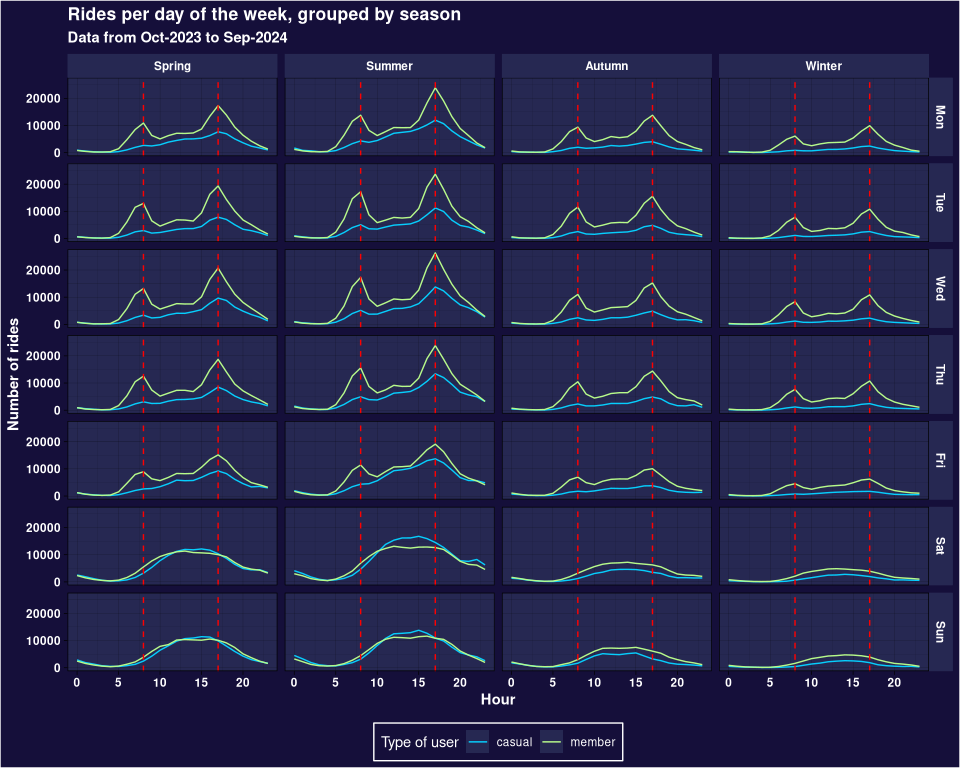
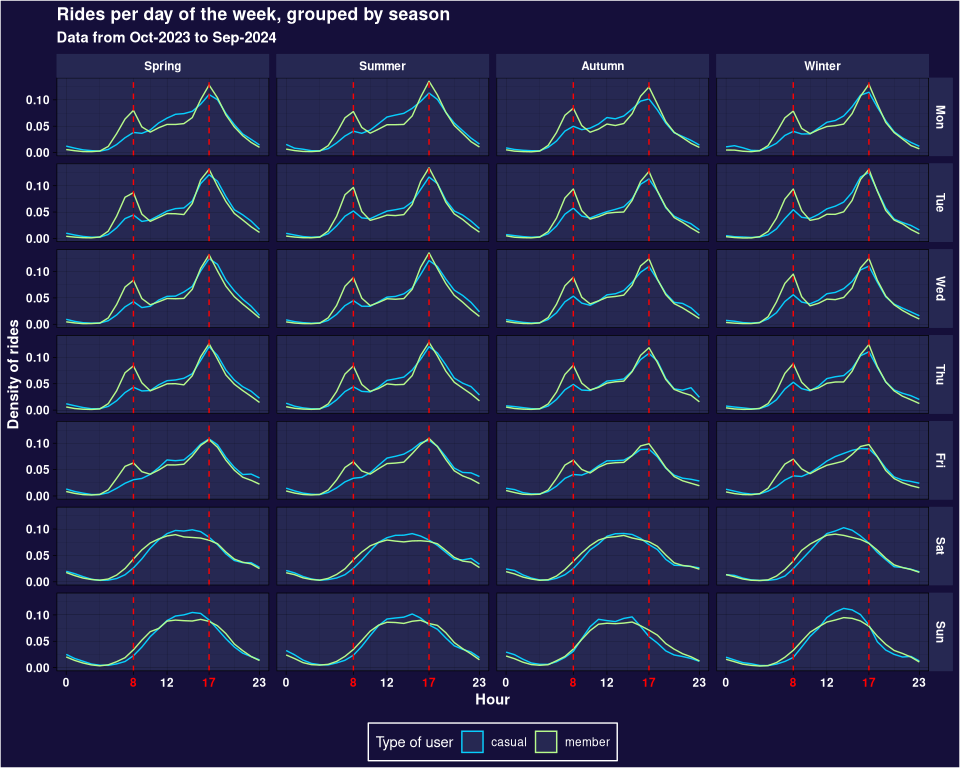
Improve plot parameters for plot of rides per day of the week and season, render file output

diff --git a/README.md b/README.md
@@ -304,14 +304,14 @@ stations |>
   kable()
 ```
 
-| station_id                           |      lat |       lon | name                         | capacity | short_name   | region_id | address |
-|:-------------------------------------|---------:|----------:|:-----------------------------|---------:|:-------------|:----------|:--------|
-| 1955905507044284968                  | 41.92227 | -87.80202 | Nordica Ave & Medill Ave     |       15 | 21378        | NA        | NA      |
-| 1934289361049585738                  | 41.82810 | -87.69468 | California Ave & 36th St     |       15 | 21338        | NA        | NA      |
-| a3b0fae6-a135-11e9-9cda-0a87ae2ba916 | 42.01270 | -87.66606 | Glenwood Ave & Touhy Ave     |       15 | 525          | NA        | NA      |
-| a3ad4d1b-a135-11e9-9cda-0a87ae2ba916 | 41.81409 | -87.59701 | Woodlawn Ave & Lake Park Ave |       15 | KA1503000065 | NA        | NA      |
-| a3acdae2-a135-11e9-9cda-0a87ae2ba916 | 41.78008 | -87.62975 | Wentworth Ave & 63rd St      |       11 | KA1503000025 | NA        | NA      |
-| a3a9f76a-a135-11e9-9cda-0a87ae2ba916 | 41.92153 | -87.70732 | Kedzie Ave & Palmer Ct       |       15 | 13292        | NA        | NA      |
+|      lat | name                       | short_name | station_id                           | capacity |       lon | region_id | address |
+|---------:|:---------------------------|:-----------|:-------------------------------------|---------:|----------:|:----------|:--------|
+| 41.96861 | Milwaukee Ave & Ainslie St | 24370      | 1969221526359528022                  |       19 | -87.76108 | NA        | NA      |
+| 41.79375 | Mozart St & 55th St        | 24267      | 1966307477149012058                  |       11 | -87.69472 | NA        | NA      |
+| 41.81574 | Western Ave & 43rd St      | 24245      | 1943244109954931024                  |       15 | -87.68489 | NA        | NA      |
+| 41.93852 | Nagle Ave & Belmont Ave    | 24324      | 1981488728284770592                  |       16 | -87.78735 | NA        | NA      |
+| 41.74656 | Stony Island Ave & 82nd St | 583        | a3b29fae-a135-11e9-9cda-0a87ae2ba916 |       11 | -87.58601 | NA        | NA      |
+| 41.99008 | Kedvale Ave & Peterson Ave | 24159      | 1929967657204564894                  |       15 | -87.73171 | NA        | NA      |
 
 ``` r
 stations |>
@@ -322,14 +322,14 @@ stations |>
 
 | Value      | NA’s |
 |:-----------|-----:|
-| station_id |    0 |
 | lat        |    0 |
-| lon        |    0 |
 | name       |    0 |
-| capacity   |    0 |
-| ios        |    0 |
 | android    |    0 |
+| ios        |    0 |
 | short_name |  872 |
+| station_id |    0 |
+| capacity   |    0 |
+| lon        |    0 |
 | region_id  | 1787 |
 | address    |  929 |
 
@@ -386,8 +386,8 @@ stations |>
 | a3a3a282-a135-11e9-9cda-0a87ae2ba916 | TA1306000014 | Wilton Ave & Diversey Pkwy        | -87.65270 | 41.93242 |
 | d53ae727-5265-4b8e-a6ca-2a36dc0345c4 | chargingstx2 | Wilton Ave & Diversey Pkwy\*      | -87.65270 | 41.93242 |
 | 1827484051430132402                  | NA           | Public Rack - Forest Glen Station | -87.75552 | 41.97871 |
-| 1715823821144840768                  | NA           | Public Rack - Laflin St &51st ST  | -87.66208 | 41.80135 |
 | 1677249871073777806                  | NA           | Public Rack - Laflin St & 51st St | -87.66208 | 41.80135 |
+| 1715823821144840768                  | NA           | Public Rack - Laflin St &51st ST  | -87.66208 | 41.80135 |
 | 1827474404723843690                  | NA           | Public Rack - Peterson Park       | -87.75552 | 41.97871 |
 
 Stations with repeated coordinates
@@ -402,12 +402,12 @@ stations |>
 
 | station_id          | short_name | name                   |       lon |      lat |
 |:--------------------|:-----------|:-----------------------|----------:|---------:|
-| 1978857650118994914 | 24409      | Indiana Ave & 133rd St | -87.61719 | 41.65380 |
 | 1967727360320698512 | 24211      | Western Ave & Lake St  | -87.68668 | 41.88481 |
+| 1978857650118994914 | 24409      | Indiana Ave & 133rd St | -87.61719 | 41.65380 |
 | 1984042930424753006 | 24394      | Steelworkers Park      | -87.53091 | 41.73793 |
-| 1448642188027369086 | NA         | Indiana Ave & 133rd St | -87.61705 | 41.65356 |
-| 1594046379513303720 | NA         | Western Ave & Lake St  | -87.68585 | 41.88461 |
 | 1448642188027369090 | NA         | Steelworkers Park      | -87.53107 | 41.73825 |
+| 1594046379513303720 | NA         | Western Ave & Lake St  | -87.68585 | 41.88461 |
+| 1448642188027369086 | NA         | Indiana Ave & 133rd St | -87.61705 | 41.65356 |
 
 Stations with repeated name
 
@@ -524,15 +524,15 @@ df |>
 kable(summary(df))
 ```
 
-|     | ride_id          | rideable_type    | started_at                     | ended_at                       | start_station_name | end_station_name | member_casual    | start_station_id | start_lon     | start_lat     | end_station_id   | end_lon       | end_lat       | ride_duration |
-|:----|:-----------------|:-----------------|:-------------------------------|:-------------------------------|:-------------------|:-----------------|:-----------------|:-----------------|:--------------|:--------------|:-----------------|:--------------|:--------------|:--------------|
-|     | Length:5847103   | Length:5847103   | Min. :2023-10-01 00:00:05.00   | Min. :2023-10-01 00:02:02.00   | Length:5847103     | Length:5847103   | Length:5847103   | Length:5847103   | Min. :-87.8   | Min. :41.6    | Length:5847103   | Min. :-87.8   | Min. :41.6    | Min. :-999391 |
-|     | Class :character | Class :character | 1st Qu.:2024-02-27 02:45:42.00 | 1st Qu.:2024-02-27 03:43:53.50 | Class :character   | Class :character | Class :character | Class :character | 1st Qu.:-87.7 | 1st Qu.:41.9  | Class :character | 1st Qu.:-87.7 | 1st Qu.:41.9  | 1st Qu.: 331  |
-|     | Mode :character  | Mode :character  | Median :2024-06-06 12:51:30.67 | Median :2024-06-06 13:09:38.19 | Mode :character    | Mode :character  | Mode :character  | Mode :character  | Median :-87.6 | Median :41.9  | Mode :character  | Median :-87.6 | Median :41.9  | Median : 580  |
-|     |                  |                  | Mean :2024-05-08 12:54:21.68   | Mean :2024-05-08 13:09:46.89   |                    |                  |                  |                  | Mean :-87.6   | Mean :41.9    |                  | Mean :-87.6   | Mean :41.9    | Mean : 925    |
-|     |                  |                  | 3rd Qu.:2024-08-05 11:40:13.60 | 3rd Qu.:2024-08-05 11:57:43.35 |                    |                  |                  |                  | 3rd Qu.:-87.6 | 3rd Qu.:41.9  |                  | 3rd Qu.:-87.6 | 3rd Qu.:41.9  | 3rd Qu.: 1028 |
-|     |                  |                  | Max. :2024-09-30 23:54:05.54   | Max. :2024-09-30 23:59:52.55   |                    |                  |                  |                  | Max. :-87.5   | Max. :42.1    |                  | Max. :-87.5   | Max. :42.1    | Max. : 90562  |
-|     |                  |                  |                                |                                |                    |                  |                  |                  | NA’s :1071544 | NA’s :1071544 |                  | NA’s :1098661 | NA’s :1098661 |               |
+|     | ride_id          | rideable_type    | started_at                     | ended_at                       | start_station_name | end_station_name | member_casual    | start_station_id | start_lon     | start_lat     | end_station_id   | end_lon       | end_lat       | ride_duration   | station_fee   |
+|:----|:-----------------|:-----------------|:-------------------------------|:-------------------------------|:-------------------|:-----------------|:-----------------|:-----------------|:--------------|:--------------|:-----------------|:--------------|:--------------|:----------------|:--------------|
+|     | Length:5845369   | Length:5845369   | Min. :2023-10-01 00:00:05.00   | Min. :2023-10-01 00:02:02.00   | Length:5845369     | Length:5845369   | Length:5845369   | Length:5845369   | Min. :-87.8   | Min. :41.6    | Length:5845369   | Min. :-87.8   | Min. :41.6    | Min. : 1.0      | Mode :logical |
+|     | Class :character | Class :character | 1st Qu.:2024-02-27 04:55:42.00 | 1st Qu.:2024-02-27 05:16:32.00 | Class :character   | Class :character | Class :character | Class :character | 1st Qu.:-87.7 | 1st Qu.:41.9  | Class :character | 1st Qu.:-87.7 | 1st Qu.:41.9  | 1st Qu.: 331.0  | FALSE:4762233 |
+|     | Mode :character  | Mode :character  | Median :2024-06-06 13:01:48.50 | Median :2024-06-06 13:21:01.54 | Mode :character    | Mode :character  | Mode :character  | Mode :character  | Median :-87.6 | Median :41.9  | Mode :character  | Median :-87.6 | Median :41.9  | Median : 580.0  | TRUE :1083136 |
+|     |                  |                  | Mean :2024-05-08 13:02:16.15   | Mean :2024-05-08 13:17:42.60   |                    |                  |                  |                  | Mean :-87.6   | Mean :41.9    |                  | Mean :-87.6   | Mean :41.9    | Mean : 926.2    |               |
+|     |                  |                  | 3rd Qu.:2024-08-05 11:48:57.01 | 3rd Qu.:2024-08-05 12:06:05.80 |                    |                  |                  |                  | 3rd Qu.:-87.6 | 3rd Qu.:41.9  |                  | 3rd Qu.:-87.6 | 3rd Qu.:41.9  | 3rd Qu.: 1028.0 |               |
+|     |                  |                  | Max. :2024-09-30 23:54:05.54   | Max. :2024-09-30 23:59:52.55   |                    |                  |                  |                  | Max. :-87.5   | Max. :42.1    |                  | Max. :-87.5   | Max. :42.1    | Max. :90562.0   |               |
+|     |                  |                  |                                |                                |                    |                  |                  |                  | NA’s :1070550 | NA’s :1070550 |                  | NA’s :1097434 | NA’s :1097434 |                 |               |
 
 We have now finished our data cleaning process. Now that our data is
 ready, let’s continue with our analysis.
@@ -706,26 +706,31 @@ and casual users, with Saturdays on summer having more casual users
 overall.
 
 ``` r
-ggplot(data=df) +
+df |>
+  ggplot() +
   aes(x = hour(started_at), color = member_casual) +
-  geom_freqpoly(stat= "count", bins=24) +
+  geom_density(n = 24) +
   geom_vline(xintercept = c(8, 17), color = "red", linetype = 2) +
+  scale_x_continuous(breaks = c(0, 8, 12, 17, 23)) +
   facet_grid(
-    cols=vars(quarter(started_at, fiscal_start = 4)),
-    rows =vars(wday(started_at, week_start = 1, label = TRUE)),
+    cols = vars(quarter(started_at, fiscal_start = 4)),
+    rows = vars(wday(started_at, week_start = 1, label = TRUE)),
     labeller = labeller(.cols = seasons)
   ) +
   labs(
-    x="Hour", 
-    title = "Rides per day of the week, grouped by season", 
-    subtitle = "Data from Oct-2023 to Sep-2024", 
-    y = "Number of rides",
+    x = "Hour",
+    title = "Rides per day of the week, grouped by season",
+    subtitle = "Data from Oct-2023 to Sep-2024",
+    y = "Density of rides",
     color = "Type of user"
-  )+
+  ) +
   global_theme() +
   scale_color_manual(values = c("#06CEFD", "#B7FA8A")) +
   global_theme() +
   theme(
+    axis.text.x = element_text(
+      color = c("white", "red", "white", "red", "white")
+    ),
     legend.background = element_rect(fill = "#150F3A", color = "white"),
     legend.text = element_text(color = "white"),
     legend.title = element_text(color = "white"),
@@ -735,15 +740,14 @@ ggplot(data=df) +
 
 ![](README_files/figure-commonmark/Usage%20per%20hour,%20day%20and%20season-1.png)
 
-We can see that usage from members and casual users doesn’t vary much
-through seasons. We could confirm this by viewing this graph with a
-density stat.
+Looking at this graph, we can see that usage is mostly identical between
+members and casual users, across the year. Something interesting is that
+during weekdays member have an spike of usage at 8am, which is very
+consistent across all the year.
 
-We can see more clearly that usage is quite similar on weekends, fact
-which points our attention to how different turns out to be the usage of
-the service between member and casual users. We can detect 2 spikes of
-usage at 8am and 5pm, which align perfectly between season. We can
-suggest that members use the service in high traffic hours,
+Given that, aside from this spike, most usage is quite similar between
+users, we should explore why members have this spike in usage, maybe
+some trend will appear if we dig dipper inside our dataframe.
 
 ``` r
 c(1)
